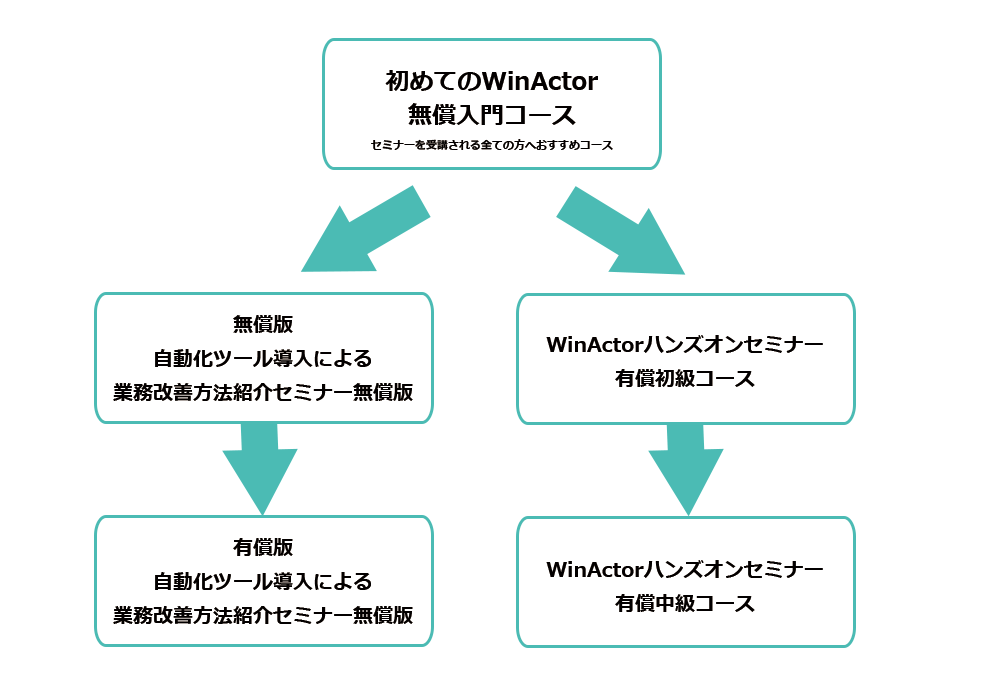
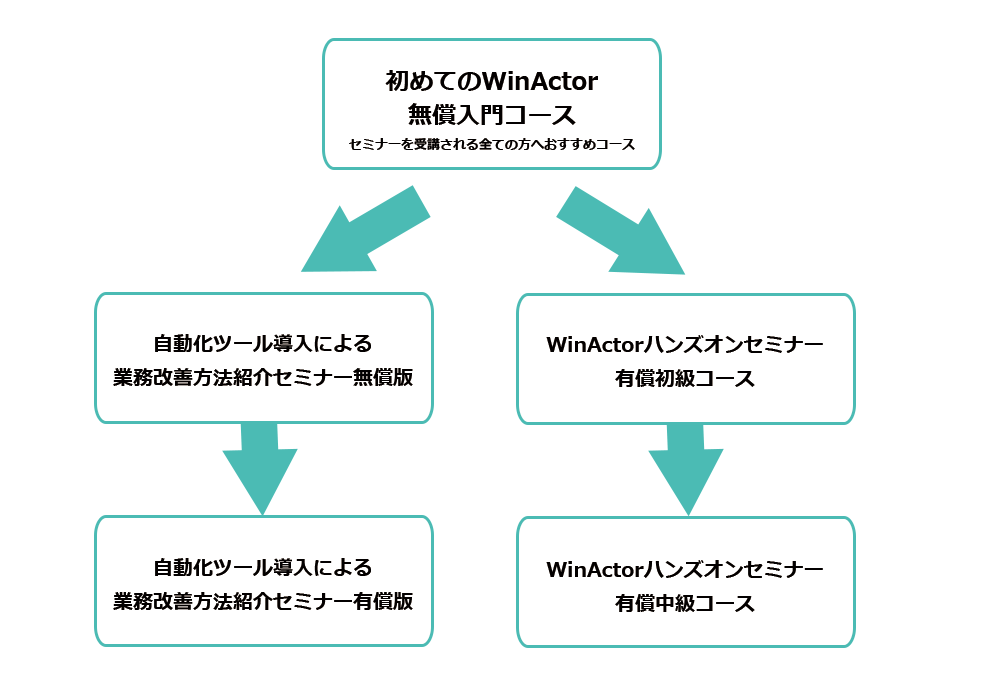
WinActor特設サイト修正

Changed region(s): [[0.093, 0.75, 0.434, 0.9], [0.093, 0.45, 0.434, 0.57], [0.341, 0.18, 0.62, 0.24]]

diff --git a/src/winactor/seminar/index.html b/src/winactor/seminar/index.html
@@ -21,12 +21,8 @@ title:      "WinActorハンズオンセミナー"
       <section class="section section-lg bg-white text-center">
         <div class="shell shell-wide">
           <h3>WinActorセミナー受講ロードマップ</h3>
-          <div class="divider divider-default"></div>
-          <div class="range range-md range-50 range-xs-center">
+          <!--<div class="divider divider-default"></div>-->
           	<img src="../images/seminar/LoadMap.png">
-
-
-          </div>
         </div>
       </section>
 
@@ -168,7 +164,7 @@ title:      "WinActorハンズオンセミナー"
                 <table class="table-custom table-color-header">
                   <thead>
                     <tr>
-                      <th></th>
+                      <th style="width: 2%"></th>
                       <th>開催日程</th>
                       <th>セミナー名</th>
                       <th>締切</th>
@@ -184,62 +180,96 @@ title:      "WinActorハンズオンセミナー"
                   	paying-intermediate.html：有償中級コース-->
 
                   <tbody>
-                    <tr>
                       <td>1</td>
-                      <td>2018年4月24日(火)</td>
-                      <td>有償初級コース</td>
-                      <td>2018年4月17日(火)</td>
-                      <td><a href="paying-beginner.html">満員御礼</a></td>
-                    </tr>
-                    <tr>
-                      <td>2</td>
                       <td>2018年5月1日(火)</td>
                       <td>無償入門コース</td>
                       <td>2018年4月24日(火)</td>
-                      <td><a href="free-gettingstarted.html">受付中</a></td>
+                      <td><a href="free-gettingstarted.html">受付終了</a></td>
                     </tr>
                     <tr>
-                      <td>3</td>
+                      <td>2</td>
                       <td>2018年5月11日(金)</td>
                       <td>無償入門コース</td>
                       <td>2018年5月7日(月)</td>
-                      <td><a href="free-gettingstarted.html">受付中</a></td>
+                      <td><a href="free-gettingstarted.html">受付終了<br>(<span style="color: red">満員御礼</span>)</a></td>
                     </tr>
                     <tr>
-                      <td>4</td>
+                      <td>3</td>
                       <td>2018年5月15日(火)</td>
                       <td>有償中級コース</td>
                       <td>2018年5月8日(火)</td>
                       <td><a href="paying-intermediate.html">受付中</a></td>
                     </tr>
                     <tr>
-                      <td>5</td>
+                      <td>4</td>
                       <td>2018年5月17日(木)</td>
                       <td>有償初級コース</td>
                       <td>2018年5月10日(木)</td>
                       <td><a href="paying-beginner.html">受付中</a></td>
                     </tr>
-                     <tr>
-                      <td>6</td>
+                    <tr>
+                      <td>5</td>
                       <td>2018年5月22日(火)</td>
                       <td>無償入門コース</td>
                       <td>2018年5月15日(火)</td>
-                      <td><a href="free-gettingstarted.html">受付中</a></td>
+                      <td><a href="free-gettingstarted.html">受付中<br>(<span style="color: red">残りわずか</span>)</a></td>
                     </tr>
-                     <tr>
-                      <td>7</td>
+                    <tr>
+                      <td>6</td>
                       <td>2018年5月29日(火)</td>
                       <td>自動化ツール導入による業務改善方法紹介セミナー 無償版</td>
                       <td>2018年5月22日(火)</td>
                       <td><a href="free-businessimprovement.html">受付中</a></td>
                     </tr>
-                     <tr>
-                      <td>8</td>
+                    <tr>
+                      <td>7</td>
                       <td>2018年5月31日(木)</td>
                       <td>自動化ツール導入による業務改善方法紹介セミナー 有償実践版</td>
                       <td>2018年5月24日(木)</td>
+                      <td><a href="paying-businessimprovement.html">受付終了<br>(<span style="color: red">満員御礼</span>)</a></td>
+                    </tr>
+                    <tr>
+                      <td>8</td>
+                      <td>2018年6月5日(火)</td>
+                      <td>無償入門コース</td>
+                      <td>2018年5月29日(火)</td>
+                      <td><a href="free-gettingstarted.html">受付中</a></td>
+                    </tr>
+                    <tr>
+                      <td>9</td>
+                      <td>2018年6月14日(木)</td>
+                      <td>自動化ツール導入による業務改善方法紹介セミナー 有償実践版</td>
+                      <td>2018年6月7日(木)</td>
                       <td><a href="paying-businessimprovement.html">受付中</a></td>
                     </tr>
+                    <tr>
+                      <td>10</td>
+                      <td>2018年6月19日(火)</td>
+                      <td>無償入門コース</td>
+                      <td>2018年6月12日(火)</td>
+                      <td><a href="free-gettingstarted.html">受付中</a></td>
+                    </tr>
+                 	<tr>
+                      <td>11</td>
+                      <td>2018年6月21日(木)</td>
+                      <td>有償初級コース</td>
+                      <td>2018年6月17日(木)</td>
+                      <td><a href="paying-beginner.html">受付中</a></td>
+                    </tr>
+                 	<tr>
+                      <td>12</td>
+                      <td>2018年6月26日(火)</td>
+                      <td>自動化ツール導入による業務改善方法紹介セミナー 無償版</td>
+                      <td>2018年6月19日(火)</td>
+                      <td><a href="free-businessimprovement.html">受付中</a></td>
+                    </tr>
+                 	<tr>
+                      <td>13</td>
+                      <td>2018年6月28日(木)</td>
+                      <td>無償入門コース</td>
+                      <td>2018年6月21日(木)</td>
+                      <td><a href="free-gettingstarted.html">受付中</a></td>
+                    </tr>                    
                   </tbody>
                 </table>
                 <p style="color: red">※セミナーへの参加は1枠につき、1 社最大 2 名様までとなっております。</p>

diff --git a/src/winactor/form/seminar_form/index.html b/src/winactor/form/seminar_form/index.html
@@ -86,14 +86,18 @@ title:      "IIMヒューマン・ソリューション"
 		                <label class="form-label-outside" for="form-1-seminar">ご希望の開催日</label>
 		                <select class="form-control select-filter" data-placeholder="All" data-minimum-results-for-search="Infinity" name="seminar" required>
 		                <!--<select class="form-control select-filter" name="seminar"　data-placeholder="All">-->
-		                  <option value="①2018年4月26日(木)　自動化ツール導入による業務改善方法紹介セミナー 有償実践版">①2018年4月26日(木)　自動化ツール導入による業務改善方法紹介セミナー 有償実践版</option>	
-		                  <option value="②2018年5月1日(火)　無償入門コース">②2018年5月1日(火)　無償入門コース</option>
-		                  <option value="③2018年5月11日(金)　無償入門コース">③2018年5月11日(金)　無償入門コース</option>
-		                  <option value="④2018年5月15日(火)　有償中級コース">④2018年5月15日(火)　有償中級コース</option>
-		                  <option value="⑤2018年5月17日(木)　有償初級コース">⑤2018年5月17日(木)　有償初級コース</option>
-		                  <option value="⑥2018年5月22日(火)　無償入門コース">⑥2018年5月22日(火)　無償入門コース</option>
-		                  <option value="⑦2018年5月29日(火)　自動化ツール導入による業務改善方法紹介セミナー 無償版">⑦2018年5月29日(火)　自動化ツール導入による業務改善方法紹介セミナー 無償版</option>
-		                  <option value="⑧2018年5月31日(木)　自動化ツール導入による業務改善方法紹介セミナー 有償実践版">⑧2018年5月31日(木)　自動化ツール導入による業務改善方法紹介セミナー 有償実践版</option>
+		                  <option value="①2018年5月11日(金)　無償入門コース">①2018年5月11日(金)　無償入門コース</option>
+		                  <option value="②2018年5月15日(火)　有償中級コース">②2018年5月15日(火)　有償中級コース</option>
+		                  <option value="③2018年5月17日(木)　有償初級コース">③2018年5月17日(木)　有償初級コース</option>
+		                  <option value="④2018年5月22日(火)　無償入門コース">④2018年5月22日(火)　無償入門コース</option>
+		                  <option value="⑤2018年5月29日(火)　自動化ツール導入による業務改善方法紹介セミナー 無償版">⑤2018年5月29日(火)　自動化ツール導入による業務改善方法紹介セミナー 無償版</option>
+		                  <option value="⑥2018年5月31日(木)　自動化ツール導入による業務改善方法紹介セミナー 有償実践版">⑥2018年5月31日(木)　自動化ツール導入による業務改善方法紹介セミナー 有償実践版</option>
+		                  <option value="⑦2018年6月5日(火)　無償入門コース">⑦2018年6月5日(火)　無償入門コース</option>
+		                  <option value="⑧2018年6月14日(木)　自動化ツール導入による業務改善方法紹介セミナー 有償実践版">⑧2018年6月14日(木)　自動化ツール導入による業務改善方法紹介セミナー 有償実践版</option>
+		                  <option value="⑨2018年6月19日(火)　無償入門コース">⑨2018年6月19日(火)　無償入門コース</option>
+		                  <option value="⑩2018年6月21日(木)　有償初級コース">⑩2018年6月21日(木)　有償初級コース</option>
+		                  <option value="⑪2018年6月26日(火)　自動化ツール導入による業務改善方法紹介セミナー 無償版">⑪2018年6月26日(火)　自動化ツール導入による業務改善方法紹介セミナー 無償版</option>
+		                  <option value="⑫2018年6月28日(木)　無償入門コース">⑫2018年6月28日(木)　無償入門コース</option>
 		                </select>
 		              </div>
 		            </div>

diff --git a/src/winactor/index.html b/src/winactor/index.html
@@ -135,39 +135,20 @@ title:      "IIMヒューマン・ソリューション WinActor特設サイト"
                   <div class="post-blog-caption">
                     <div class="post-blog-caption-header">
                       <ul class="post-blog-tags">
-                        <li><a class="button-tags" href="/winactor/seminar/">セミナー</a></li>
+                        <li><a class="button-tags" href="/winactor/seminar/">お知らせ</a></li>
                       </ul>
                     </div>
                     <div class="post-blog-caption-body">
                       <h5><a class="post-blog-title" href="/winactor/seminar/free-gettingstarted.html">
-                      【満員御礼】4月19日開催 無償入門コース</a></h5>
+                      【お知らせ】6月開催のWinActorセミナーを追加しました！</a></h5>
                     </div>
                     <div class="post-blog-caption-footer">
-                      <time datetime="2018">2018年4月10日(火)</time>
+                      <time datetime="2018">2018年5月1日(火)</time>
                       <!--<a class="post-comment" href="image-post.html"><span class="icon icon-md-middle icon-gray-1 mdi mdi-comment"></span><span>3</span></a>-->
                     </div>
                   </div>
                 </article>
-                <!--ここまで-->
-                <!--ここから-->                
-                <article class="post-blog"><a class="post-blog-image"><img src="images/single-project-3-870x580.jpg" alt="" width="570" height="415"/></a>
-                  <div class="post-blog-caption">
-                    <div class="post-blog-caption-header">
-                      <ul class="post-blog-tags">
-                        <li><a class="button-tags" href="/winactor/seminar/">セミナー</a></li>
-                      </ul>
-                    </div>
-                    <div class="post-blog-caption-body">
-                      <h5><a class="post-blog-title" href="/winactor/seminar/index.html">
-                      2018年5月開催分のセミナーを追加しました！</a></h5>
-                    </div>
-                    <div class="post-blog-caption-footer">
-                      <time datetime="2018">2018年4月2日(月)</time>
-                      <!--<a class="post-comment" href="image-post.html"><span class="icon icon-md-middle icon-gray-1 mdi mdi-comment"></span><span>3</span></a>-->
-                    </div>
-                  </div>
-                </article>
-                <!--ここまで-->                
+                <!--ここまで-->              
               </div>
             </div>
           </div><a class="button button-primary" href="winactor/index.html">トピックス一覧  </a>

diff --git a/src/winactor/seminar/free-gettingstarted.html b/src/winactor/seminar/free-gettingstarted.html
@@ -54,11 +54,12 @@ title:      "無償入門コース"
                       <th>開催日</th>
                       <td>
                         <ul class="pricing-box-list">
-                          <li>2018年4月19日(木)13時～16時(<span style="color: red">
-                          満員御礼</span>)</li>
-                          <li>2018年5月&nbsp;1日(火)13時～16時</li>
-                          <li>2018年5月11日(火)13時～16時</li>
-                          <li>2018年5月22日(火)13時～16時</li>
+                          <li>2018年5月&nbsp;1日(火)13時～16時(<span style="color: red">受付終了</span>)</li>
+                          <li>2018年5月11日(火)13時～16時(<span style="color: red">満員御礼</span>)</li>
+                          <li>2018年5月22日(火)13時～16時(<span style="color: red">残りわずか</span>)</li>
+                          <li>2018年6月&nbsp;5日(火)13時～16時</li>
+                          <li>2018年6月19日(火)13時～16時</li>
+                          <li>2018年6月28日(木)13時～16時</li>
                         </ul>
                       </td>
                     </tr>

diff --git a/src/css/winstyle.css b/src/css/winstyle.css
@@ -9530,7 +9530,8 @@ textarea.form-input.form-input-lg {
 
 .table-custom th,
 .table-custom td {
-  padding: 15px 20px 15px 15px;
+  /*padding: 15px 20px 15px 15px;*/
+  
   font-weight: 300;
   letter-spacing: 0.02em;
   color: #1f2323;
@@ -9546,7 +9547,8 @@ textarea.form-input.form-input-lg {
 @media (min-width: 992px) {
   .table-custom th,
   .table-custom td {
-    padding: 15px 45px 15px 35px;
+    padding: 15px;
+    /*padding: 15px 45px 15px 35px;*/
   }
   .table-custom th:first-child,
   .table-custom td:first-child {

diff --git a/src/winactor/seminar/paying-beginner.html b/src/winactor/seminar/paying-beginner.html
@@ -54,8 +54,8 @@ title:      "有償初級コース"
                       <th>開催日</th>
                       <td>
                         <ul class="pricing-box-list">
-                          <li>2018年4月24日(火) 13時～17時40分</li>
                           <li>2018年5月17日(木)　13時～17時40分</li>
+                          <li>2018年6月21日(木)　13時～17時40分</li>
                         </ul>
                       </td>
                     </tr>

diff --git a/src/winactor/WinActor/index.html b/src/winactor/WinActor/index.html
@@ -5,6 +5,9 @@ description:    "WinActorトピックス一覧をご案内いたします。"
 keywords:		"トピックス,導入事例,開催実績,お問合わせ,セミナー"
 categories:		 
  - "seminar"
+ - "cases"
+ - "other" 
+
 paginate:
   collection:   posts
   per_page:     10
@@ -14,4 +17,3 @@ paginate:
   categories:
     - "WinActor"
 ---
-

diff --git a/src/winactor/WinActor/_posts/2018-04-27-seminar.html b/src/winactor/WinActor/_posts/2018-04-27-seminar.html
@@ -1,0 +1,8 @@
+---
+title:  "6月開催のWinActorセミナーを追加しました！"
+date:   2018-04-27 09:00:00 +0900
+link:		"/winactor/seminar/index.html"
+categories:
+  - "セミナー"
+---
+

diff --git a/src/winactor/WinActor/_posts/2018-04-27-other.html b/src/winactor/WinActor/_posts/2018-04-27-other.html
@@ -1,0 +1,7 @@
+---
+title:  "WinActor特設サイトをオープンしました"
+date:   2018-05-01 09:00:00 +0900
+categories:
+  - "お知らせ"
+---
+
